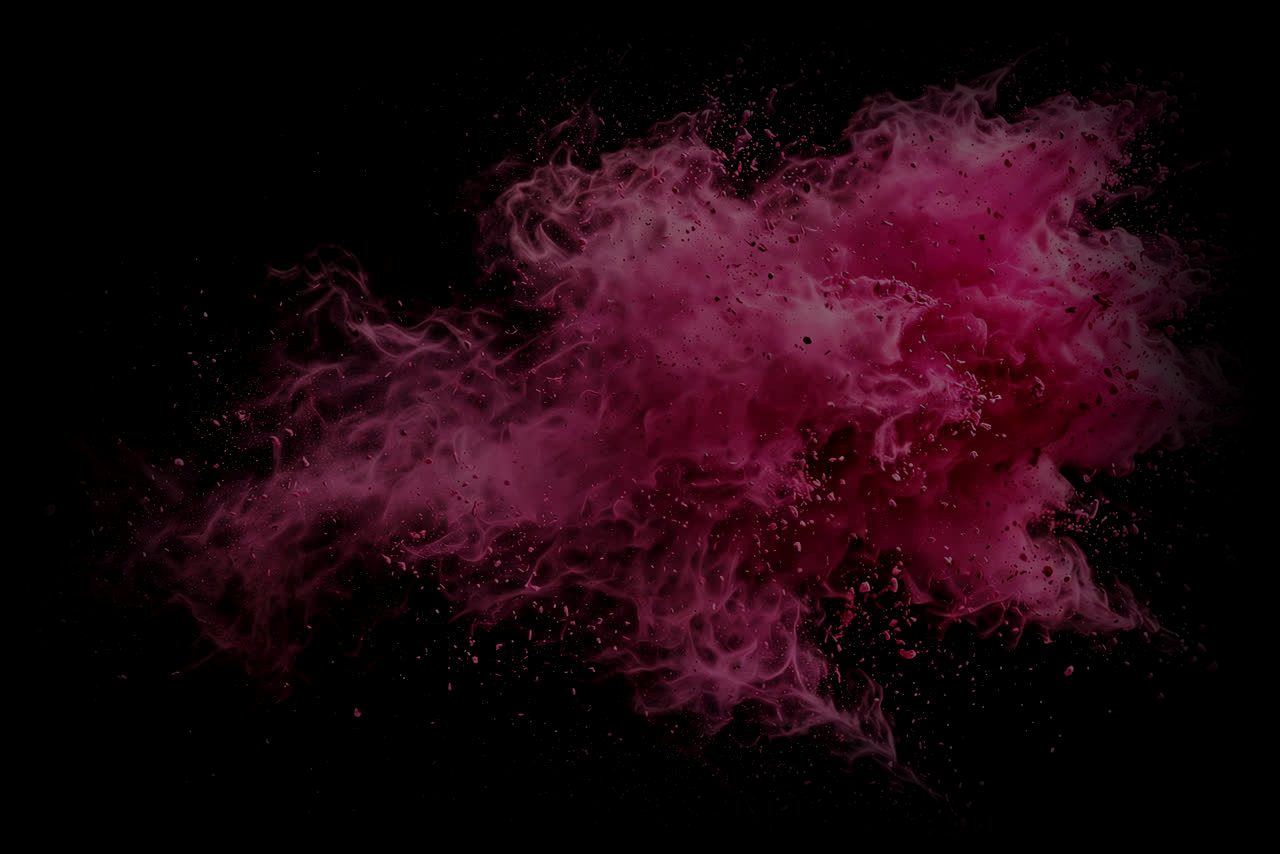
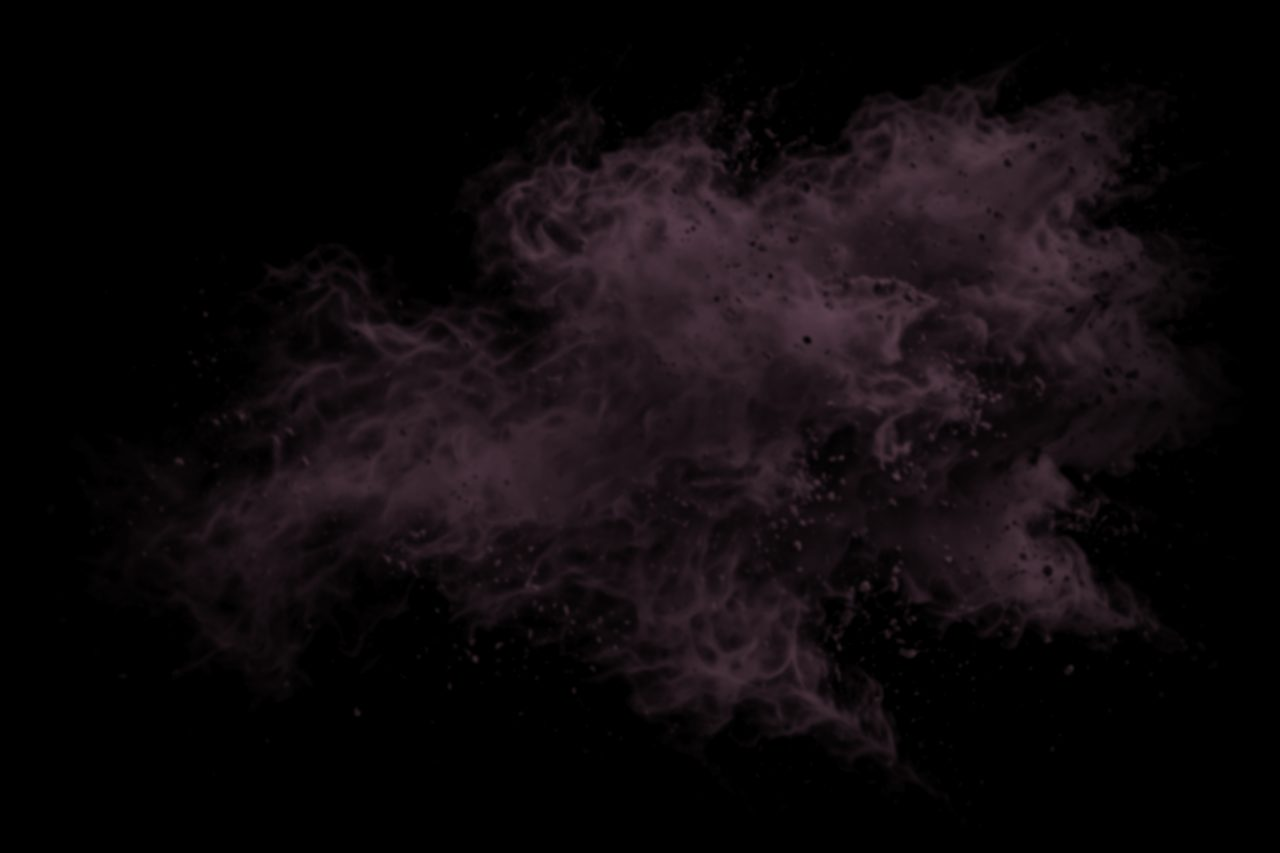
Theme: no halftone on halftone; chalkier, less fiery powder (team review 2026-11-01)
- Inner (raised) cards drop the dots for a soft sheen (--card-sheen), so the halftone is only on the outer card:
  it shows depth and never sits on another halftone.
- The powder textures are rebuilt as matte pastel chalk (softened, desaturated, a whitish core, 49 KB and 45 KB)
  and the gradient smoke uses the same chalk pink instead of hot magenta.

Changed region(s): [[0.125, 0.0914, 0.9375, 0.8839], [0.4375, 0.1219, 0.4688, 0.1524]]

diff --git a/web/theme/tokens.css b/web/theme/tokens.css
@@ -47,11 +47,12 @@
   /* depth (brand design 2026-11-01): lime is the only pop colour; pink lives in the back layer as smoke and halftone
      dots, and every grey card carries a faint halftone dot field that fades into its grey, so no surface is flat */
   --color-pink: var(--palette-pink);
-  --color-pink-smoke: rgb(255 45 149 / 42%);
-  --color-pink-smoke-soft: rgb(255 45 149 / 20%);
+  --color-pink-smoke: rgb(255 158 205 / 20%);
+  --color-pink-smoke-soft: rgb(255 158 205 / 10%);
   --color-pink-dot: rgb(255 45 149 / 60%);
   --color-lime-dot: rgb(198 243 90 / 45%);
   --color-card-dot: rgb(255 255 255 / 6%);
+  --color-card-sheen: rgb(255 255 255 / 4%);
   --mask-on: var(--palette-pure-black);
   --halftone-card-size: 6px;
   --halftone-back-size: 11px;
@@ -61,7 +62,10 @@
   --card-fade-raised: linear-gradient(140deg, transparent 0%, transparent 15%, var(--color-raised) 75%);
   /* the backgrounds to use for a grey card: the halftone, faded toward the bottom right, over the grey */
   --card-fill: var(--card-fade), var(--halftone-card), var(--color-surface);
-  --card-fill-raised: var(--card-fade-raised), var(--halftone-card), var(--color-raised);
+  /* inner cards (raised) carry no dots, only a soft sheen: halftone shows depth, so it never sits on halftone; the
+     outer card has the dots and what sits inside it is smooth (team review 2026-11-01) */
+  --card-sheen: linear-gradient(160deg, var(--color-card-sheen) 0%, transparent 60%);
+  --card-fill-raised: var(--card-sheen), var(--color-raised);
   /* the page's back layer: chalk-powder bursts (generated images, pink on black, screen-blended so the black drops
      out) over soft pink smoke, under the halftone fields drawn by base.css; img/ is beside this file */
   --powder-a: url("img/powder-a.jpg");
